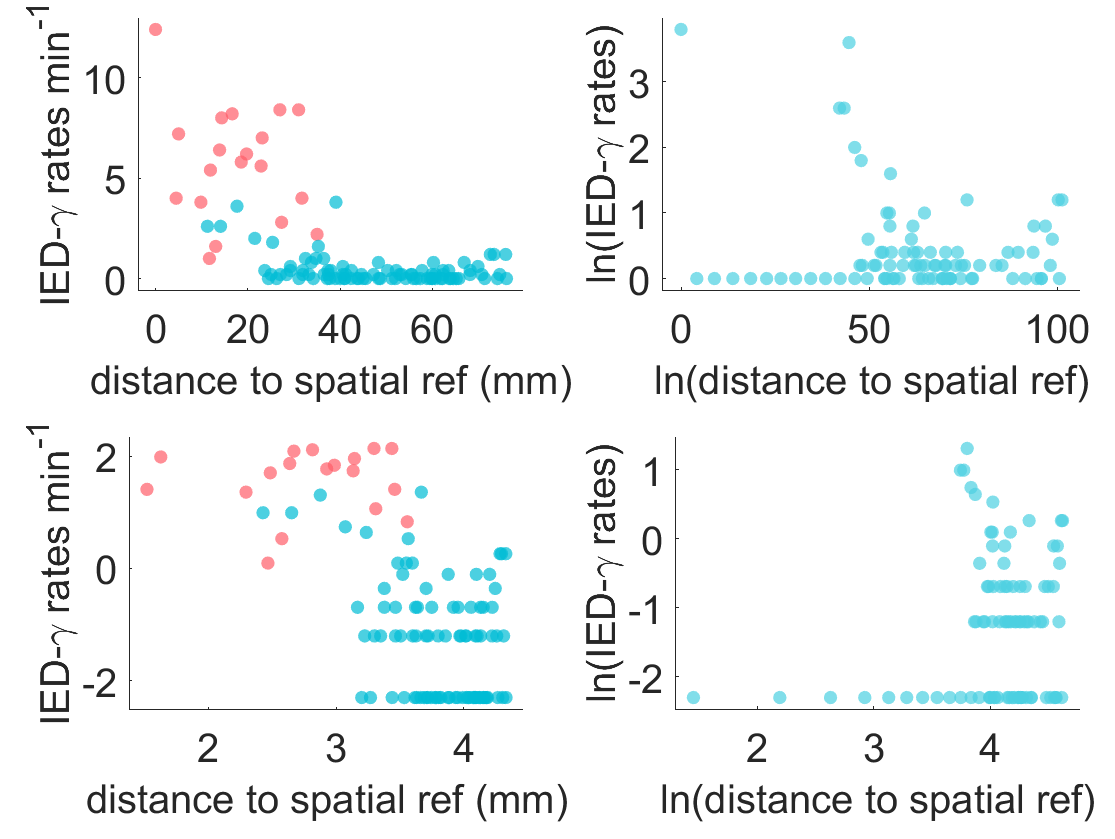
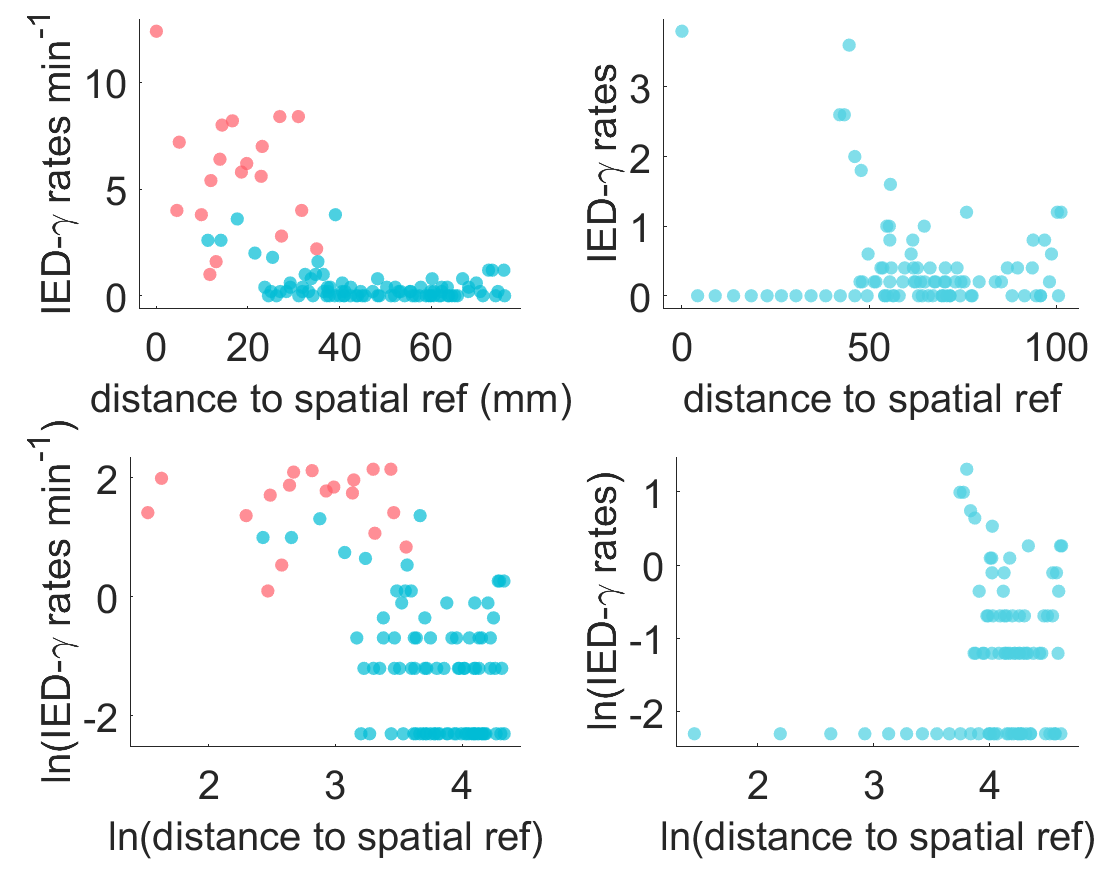
some fixes

diff --git a/vSP_demo.m b/vSP_demo.m
@@ -117,14 +117,14 @@ soz(sozIdx(ii))=[];
 gr(2,1) = gramm('x', data{1,2}(:,1), 'y', data{1,2}(:,2), 'color', soz==0);
 gr(2,1).geom_point('alpha',0.7);
 gr(2,1).set_point_options("base_size",10);
-gr(2,1).set_names('x', 'distance to spatial ref (mm)', 'y', "IED-\gamma rates min^{-1}");
+gr(2,1).set_names('x', 'ln(distance to spatial ref)', 'y', "ln(IED-\gamma rates min^{-1})");
 gr(2,1).set_text_options('interpreter', 'tex','base_size',30);
 gr(2,1).no_legend();
 
 gr(1,2) = gramm('x', data{2,1}(:,1), 'y', data{2,1}(:,2));
 gr(1,2).geom_point('alpha',0.7);
 gr(1,2).set_point_options("base_size",10);
-gr(1,2).set_names('x', 'ln(distance to spatial ref)', 'y', "ln(IED-\gamma rates)");
+gr(1,2).set_names('x', 'distance to spatial ref', 'y', "IED-\gamma rates");
 gr(1,2).set_text_options('interpreter', 'tex','base_size',30);
 gr(1,2).set_color_options('map',[76 208 225]/255,'n_color',1,'n_lightness',1);
 gr(1,2).no_legend();
